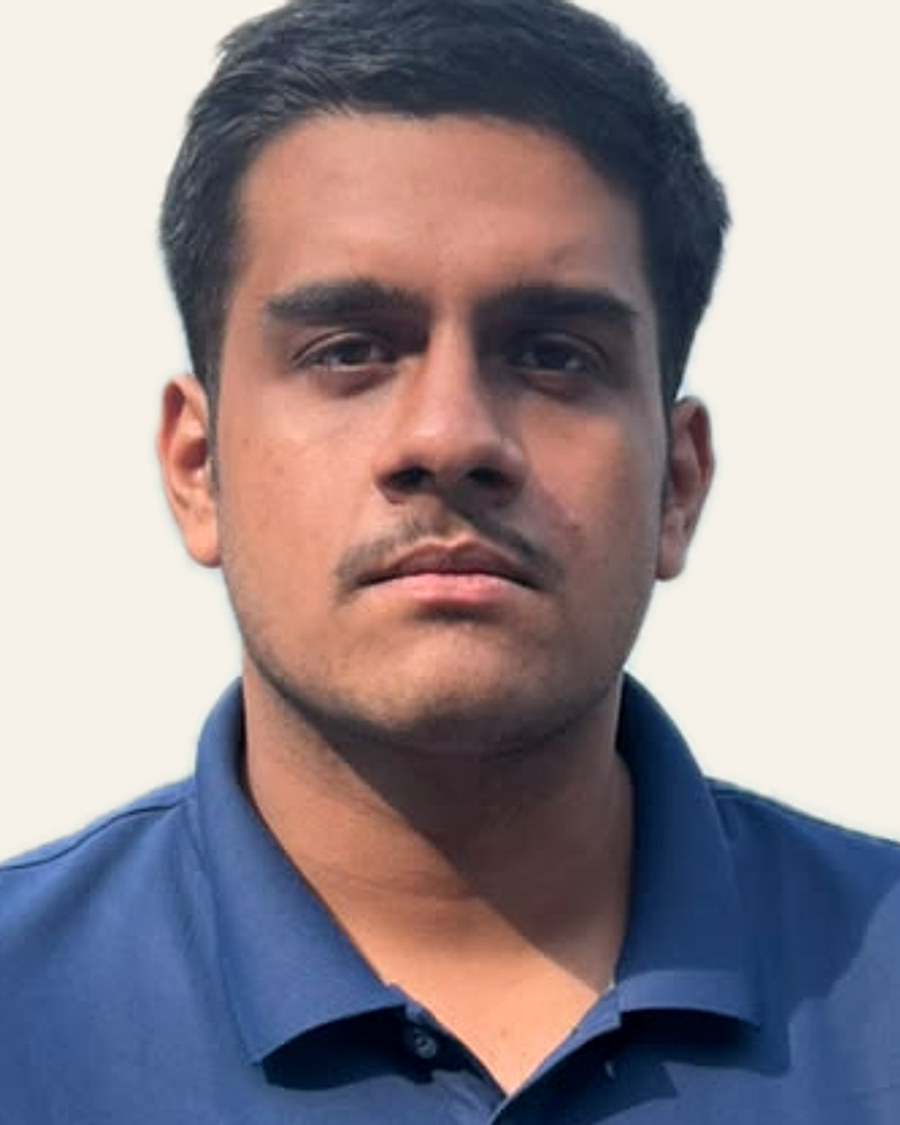
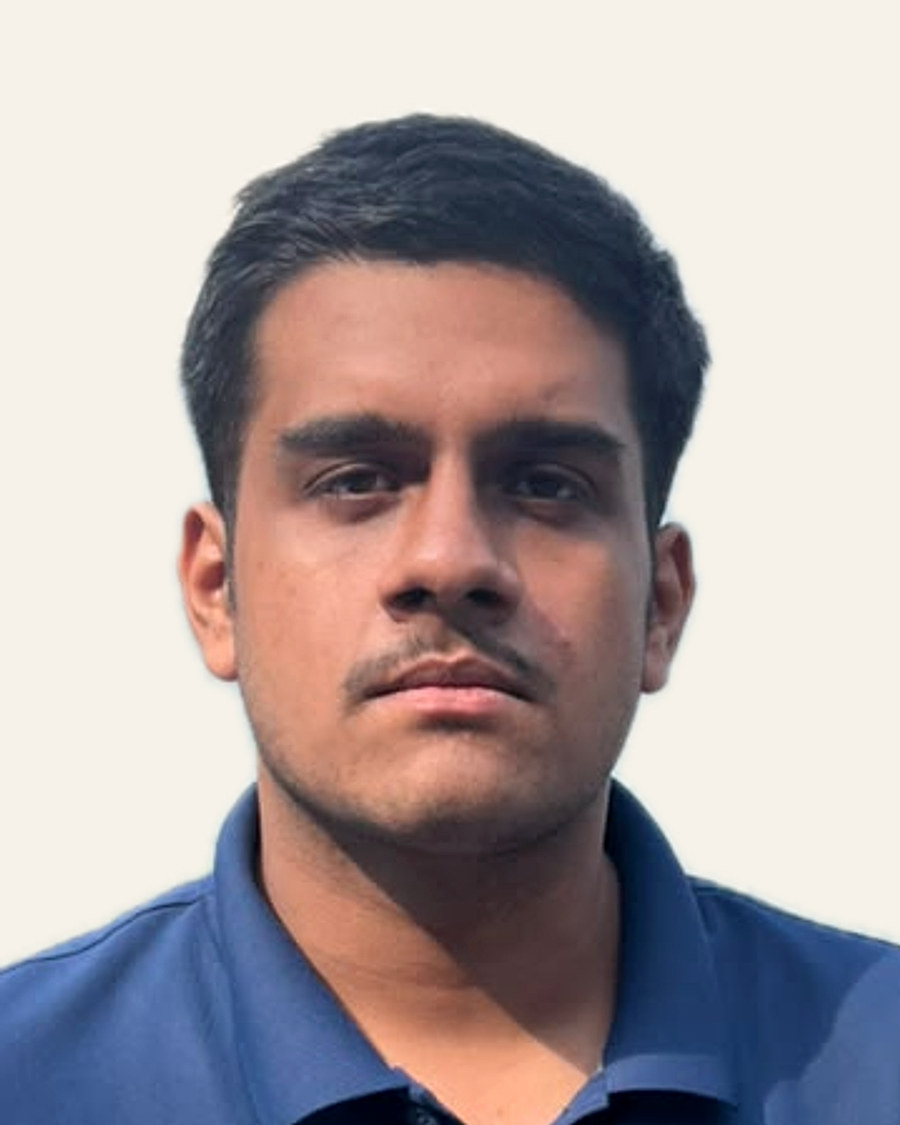
Frame portraits from the head so hair is never clipped
- make-portraits.mjs measures crown-to-chin from the cut-out's alpha instead of the face box,
  keeps a tenth of the frame as headroom, and pads with paper tone rather than running past
  the bottom of a photograph
- pnpm refresh-portraits swaps the files into the existing media items, leaving links intact
- check-email falls back to the domain's own nameservers, so a cached negative lookup no longer
  reports a live DKIM record as missing

diff --git a/src/scripts/check-email.ts b/src/scripts/check-email.ts
@@ -6,7 +6,7 @@
  *
  * Run it after adding the Resend DNS records, and again after setting RESEND_API_KEY.
  */
-import { resolveMx, resolveTxt } from 'node:dns/promises'
+import { Resolver, resolveMx, resolveNs, resolveTxt } from 'node:dns/promises'
 import configPromise from '@payload-config'
 import { getPayload } from 'payload'
 
@@ -16,9 +16,29 @@ const tick = (ok: boolean) => (ok ? '✓' : '✕')
 const domain = COMPANY_EMAIL_DOMAIN
 const recipient = normaliseEmail(process.argv[2])
 
-const lookupTxt = async (name: string) => {
+/**
+ * Looks up TXT records, falling back to the domain's own nameservers. Public resolvers cache
+ * "this does not exist" answers for a while, which otherwise makes a freshly added record
+ * look missing long after it is live.
+ */
+const lookupTxt = async (name: string): Promise<string[]> => {
   try {
-    return (await resolveTxt(name)).map((parts) => parts.join(''))
+    const records = await resolveTxt(name)
+    if (records.length) return records.map((parts) => parts.join(''))
+  } catch {
+    // fall through to the authoritative lookup
+  }
+
+  try {
+    const nameservers = await resolveNs(domain)
+    const authoritative = new Resolver()
+    const addresses = await Promise.all(
+      nameservers.slice(0, 2).map((ns) => new Resolver().resolve4(ns).catch(() => [])),
+    )
+    const ips = addresses.flat()
+    if (!ips.length) return []
+    authoritative.setServers(ips)
+    return (await authoritative.resolveTxt(name)).map((parts) => parts.join(''))
   } catch {
     return []
   }
@@ -47,6 +67,8 @@ const dkim = await lookupTxt(`resend._domainkey.${domain}`)
 console.log(
   `${tick(dkim.length > 0)} DKIM record at resend._domainkey.${domain} ${dkim.length ? 'found' : 'not found yet'}`,
 )
+if (!dkim.length)
+  console.log('  (a public resolver may still be caching “not found” — wait a few minutes)')
 
 const sendSpf = await lookupTxt(`send.${domain}`)
 const rootSpf = (await lookupTxt(domain)).filter((value) => value.startsWith('v=spf1'))

diff --git a/src/scripts/refresh-portraits.ts b/src/scripts/refresh-portraits.ts
@@ -1,0 +1,52 @@
+/**
+ * Replaces the portrait files already in the media library with the current versions in
+ * public/brand/people, keeping the same media items (so the People entries, and anything else
+ * pointing at them, stay linked).
+ *
+ *   pnpm brand:portraits public/brand/people yuvraj=~/Downloads/yuvraj.jpg …   # re-cut the photos
+ *   pnpm refresh-portraits                                                      # then push them in
+ *
+ * Nothing else in the database is touched.
+ */
+import configPromise from '@payload-config'
+import { readFileSync } from 'node:fs'
+import path from 'node:path'
+import { getPayload } from 'payload'
+
+/** local file in public/brand/people → the filename it has in the media library */
+const portraits: Record<string, string> = {
+  'yuvraj.jpg': 'yuvraj-singh-pathania.jpg',
+  'aryaveer.jpg': 'aryaveer-singh-parihar.jpg',
+}
+
+const payload = await getPayload({ config: configPromise })
+
+for (const [localName, mediaFilename] of Object.entries(portraits)) {
+  const found = await payload.find({
+    collection: 'media',
+    where: { filename: { equals: mediaFilename } },
+    limit: 1,
+    overrideAccess: true,
+  })
+
+  const existing = found.docs[0]
+  if (!existing) {
+    console.log(`– ${mediaFilename} is not in the media library; skipping`)
+    continue
+  }
+
+  const data = readFileSync(path.resolve(process.cwd(), 'public/brand/people', localName))
+
+  await payload.update({
+    collection: 'media',
+    id: existing.id,
+    data: {},
+    file: { data, mimetype: 'image/jpeg', name: mediaFilename, size: data.length },
+    overrideAccess: true,
+  })
+
+  console.log(`✓ Updated ${mediaFilename} (${(data.length / 1024).toFixed(0)} kB)`)
+}
+
+console.log('\nThe live pages refresh by themselves.\n')
+process.exit(0)
